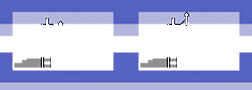
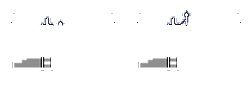
backgrounds dirty

diff --git a/css/style.css b/css/style.css
@@ -1,8 +1,7 @@
-@import url('https://fonts.googleapis.com/css?family=B612|Noto+Serif+SC');
+@import url("https://fonts.googleapis.com/css?family=B612|Noto+Serif+SC");
 
 html {
   background-color: #002fa7;
-
 }
 
 main {
@@ -12,9 +11,8 @@ main {
   width: 700px;
   background-color: 002fa7;
   /* font-family: 'Noto Serif SC', serif; */
-  font-family: 'B612', sans-serif;
+  font-family: "B612", sans-serif;
   text-shadow: 1px 1px 1px black;
-
 }
 
 h1 {
@@ -22,6 +20,7 @@ h1 {
   padding: 2.5% 0%;
   color: white;
   font-size: 1.5em;
+
 }
 
 h2 {
@@ -31,9 +30,9 @@ h2 {
   font-size: 0.8em;
 }
 
-h2{
-  font-size: 1.2em; 
-  }
+h2 {
+  font-size: 1.2em;
+}
 
 #title {
   text-align: left;
@@ -68,11 +67,24 @@ h2{
   background-repeat: no-repeat;*/
   /* background-size: 100%;  */
   /* animation: play 0.8s steps(2) 2; */
-
+  width: 100%;
+  position:relative;
+  overflow: hidden;
 }
 
+.room-action {
+  z-index: 1;
+  /* top:0; */
+  width: 200%; /*pending to fix animation*/
+  position: absolute;
+  animation: play 0.8s steps(2) 2;
+}
+
+
 @keyframes play {
-  100% { background-position: -252px; }
+  100% {
+    background-position: -252px;
+  }
 }
 
 #stack {
@@ -104,7 +116,7 @@ h2{
   /* border-bottom: 1px solid white; */
   color: white;
   list-style: none;
-  font-size: .7em;
+  font-size: 0.7em;
   padding: 0;
   margin: 2px;
 }
@@ -132,36 +144,29 @@ h2{
   background-size: 1%;
 
   transform-style: preserve-3d;
-
-
 }
 
 .hand-card:hover {
   border: solid 4px white;
-  transition: transform .2s;
+  transition: transform 0.2s;
   transform: scale(1.1);
-
 }
 
 .hand-card:active {
   background-repeat: no-repeat center;
   background-size: 100%;
-  transition: transform .1s;
+  transition: transform 0.1s;
 
   transform: rotateY(180deg);
-
 }
 
 .hand-card concealed {
   border: solid 1px white;
-
 }
 
 #avatar {
   /* border: solid 1px white; */
 }
-
-
 
 #avatar img {
   /* background-repeat: no-repeat center; */
@@ -188,8 +193,8 @@ h2{
   font-size: 2em;
   height: 60vh;
   width: 90%;
-  font-family: 'B612', sans-serif;
-text-shadow: 1px 1px 1px black;
+  font-family: "B612", sans-serif;
+  text-shadow: 1px 1px 1px black;
 
   /* text-decoration: none; */
   box-shadow: 10px 10px 1px black;
@@ -205,4 +210,6 @@ text-shadow: 1px 1px 1px black;
 .restart-button:active {
   position: relative;
   top: 1px;
+  font-family: "B612", sans-serif;
+  text-shadow: 1px 1px 1px black;
 }

diff --git a/src/main.js b/src/main.js
@@ -74,7 +74,6 @@ function main() {
     // Generate rooms and append them to the monitor view
     function updateRoomsIntoMonitor(cardValue) {
 
-      
       let result = "";
       let monitorView = document.querySelector("#monitor");
       
@@ -87,19 +86,22 @@ function main() {
         var anim =  "";
         console.log("room: visited: " + game.rooms[index].visited + " value: " +game.rooms[index].value);
 
-
         if (!game.rooms[index].visited){
           anim ='animation: play 0.8s steps(2) 2'; 
           game.rooms[index].value = cardValue;
           game.rooms[index].visited = true;
+          var randomBackground = Math.trunc(Math.random()*4);
           result += `
-          <div class="room ${game.adventureStep}" style="background-image:url(img/${cardValue}_room_open.png); ${anim}" ><h2>${index}</h2></div>`;
+          <div class="room ${game.adventureStep}" style="background-image:url(img/bg_${randomBackground}.png); ">
+          <img class="room-action" src="img/${game.rooms[index].value}_room_open.png"; style="${anim};"/>
+          <h2>${index}</h2>
+          </div>`;
           console.log("result string: " + result);
 
           game.visitedRoomsValue[index] = [game.rooms[index].value];
         } else {
           result += `
-        <div class="room ${game.adventureStep}" style="background-image:url(img/${game.visitedRoomsValue[index]}_room_open.png); ${anim}" ><h2>${index}</h2></div>`;
+        <div class="room ${game.adventureStep}" style="background-image:url(img/bg_scene.png); ${anim}" ><h2>${index}</h2></div>`;
         }
 
             console.log("game.adventureStep " + game.adventureStep + " index " + index);
